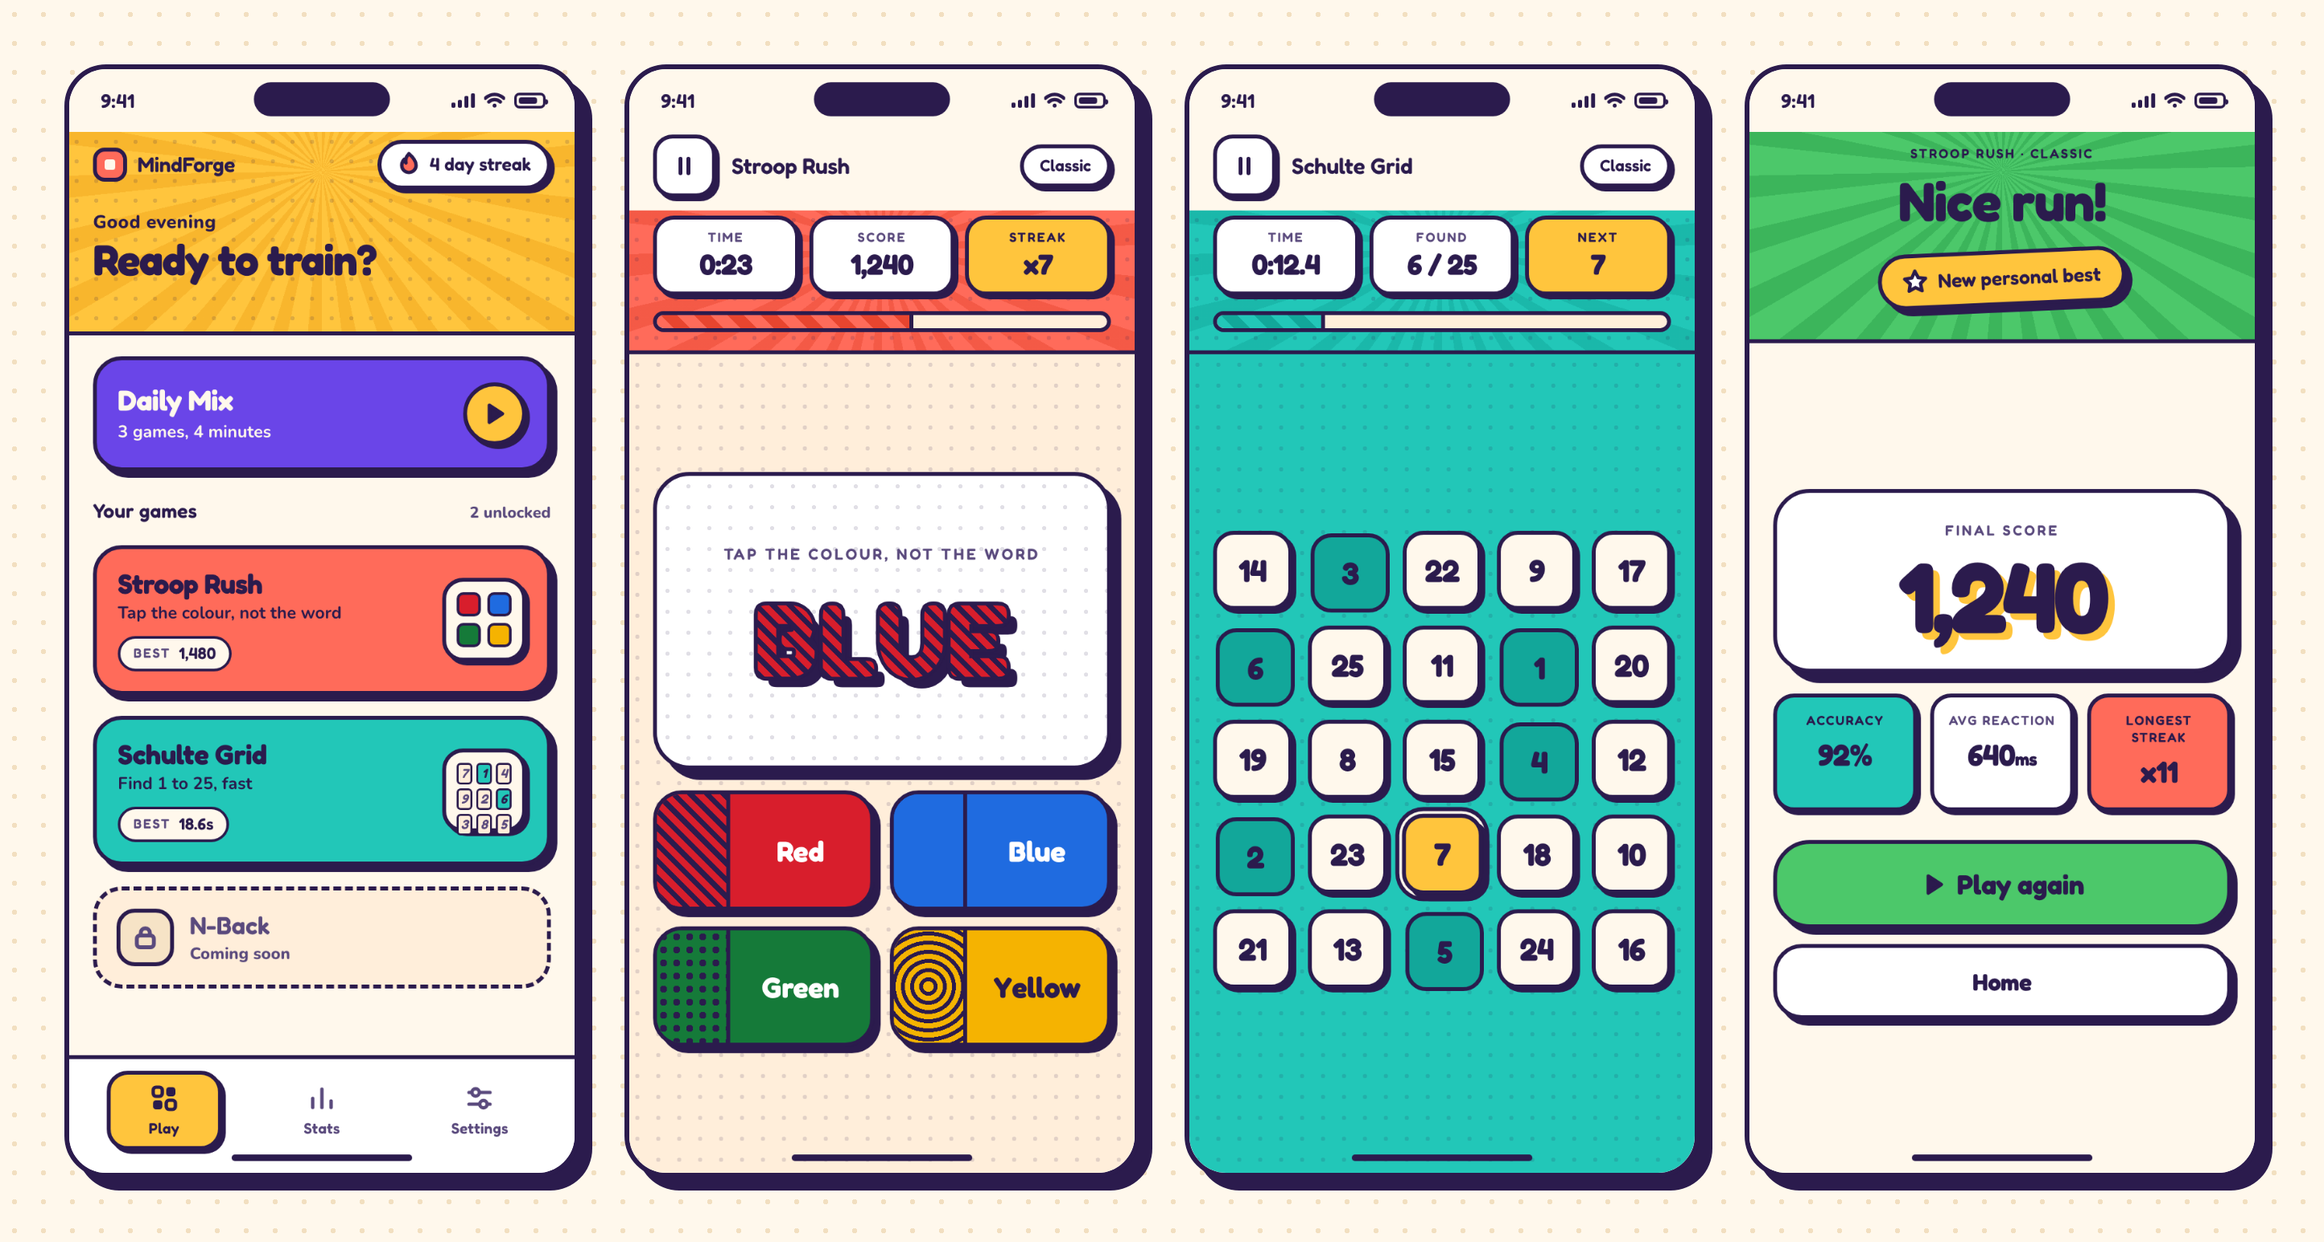
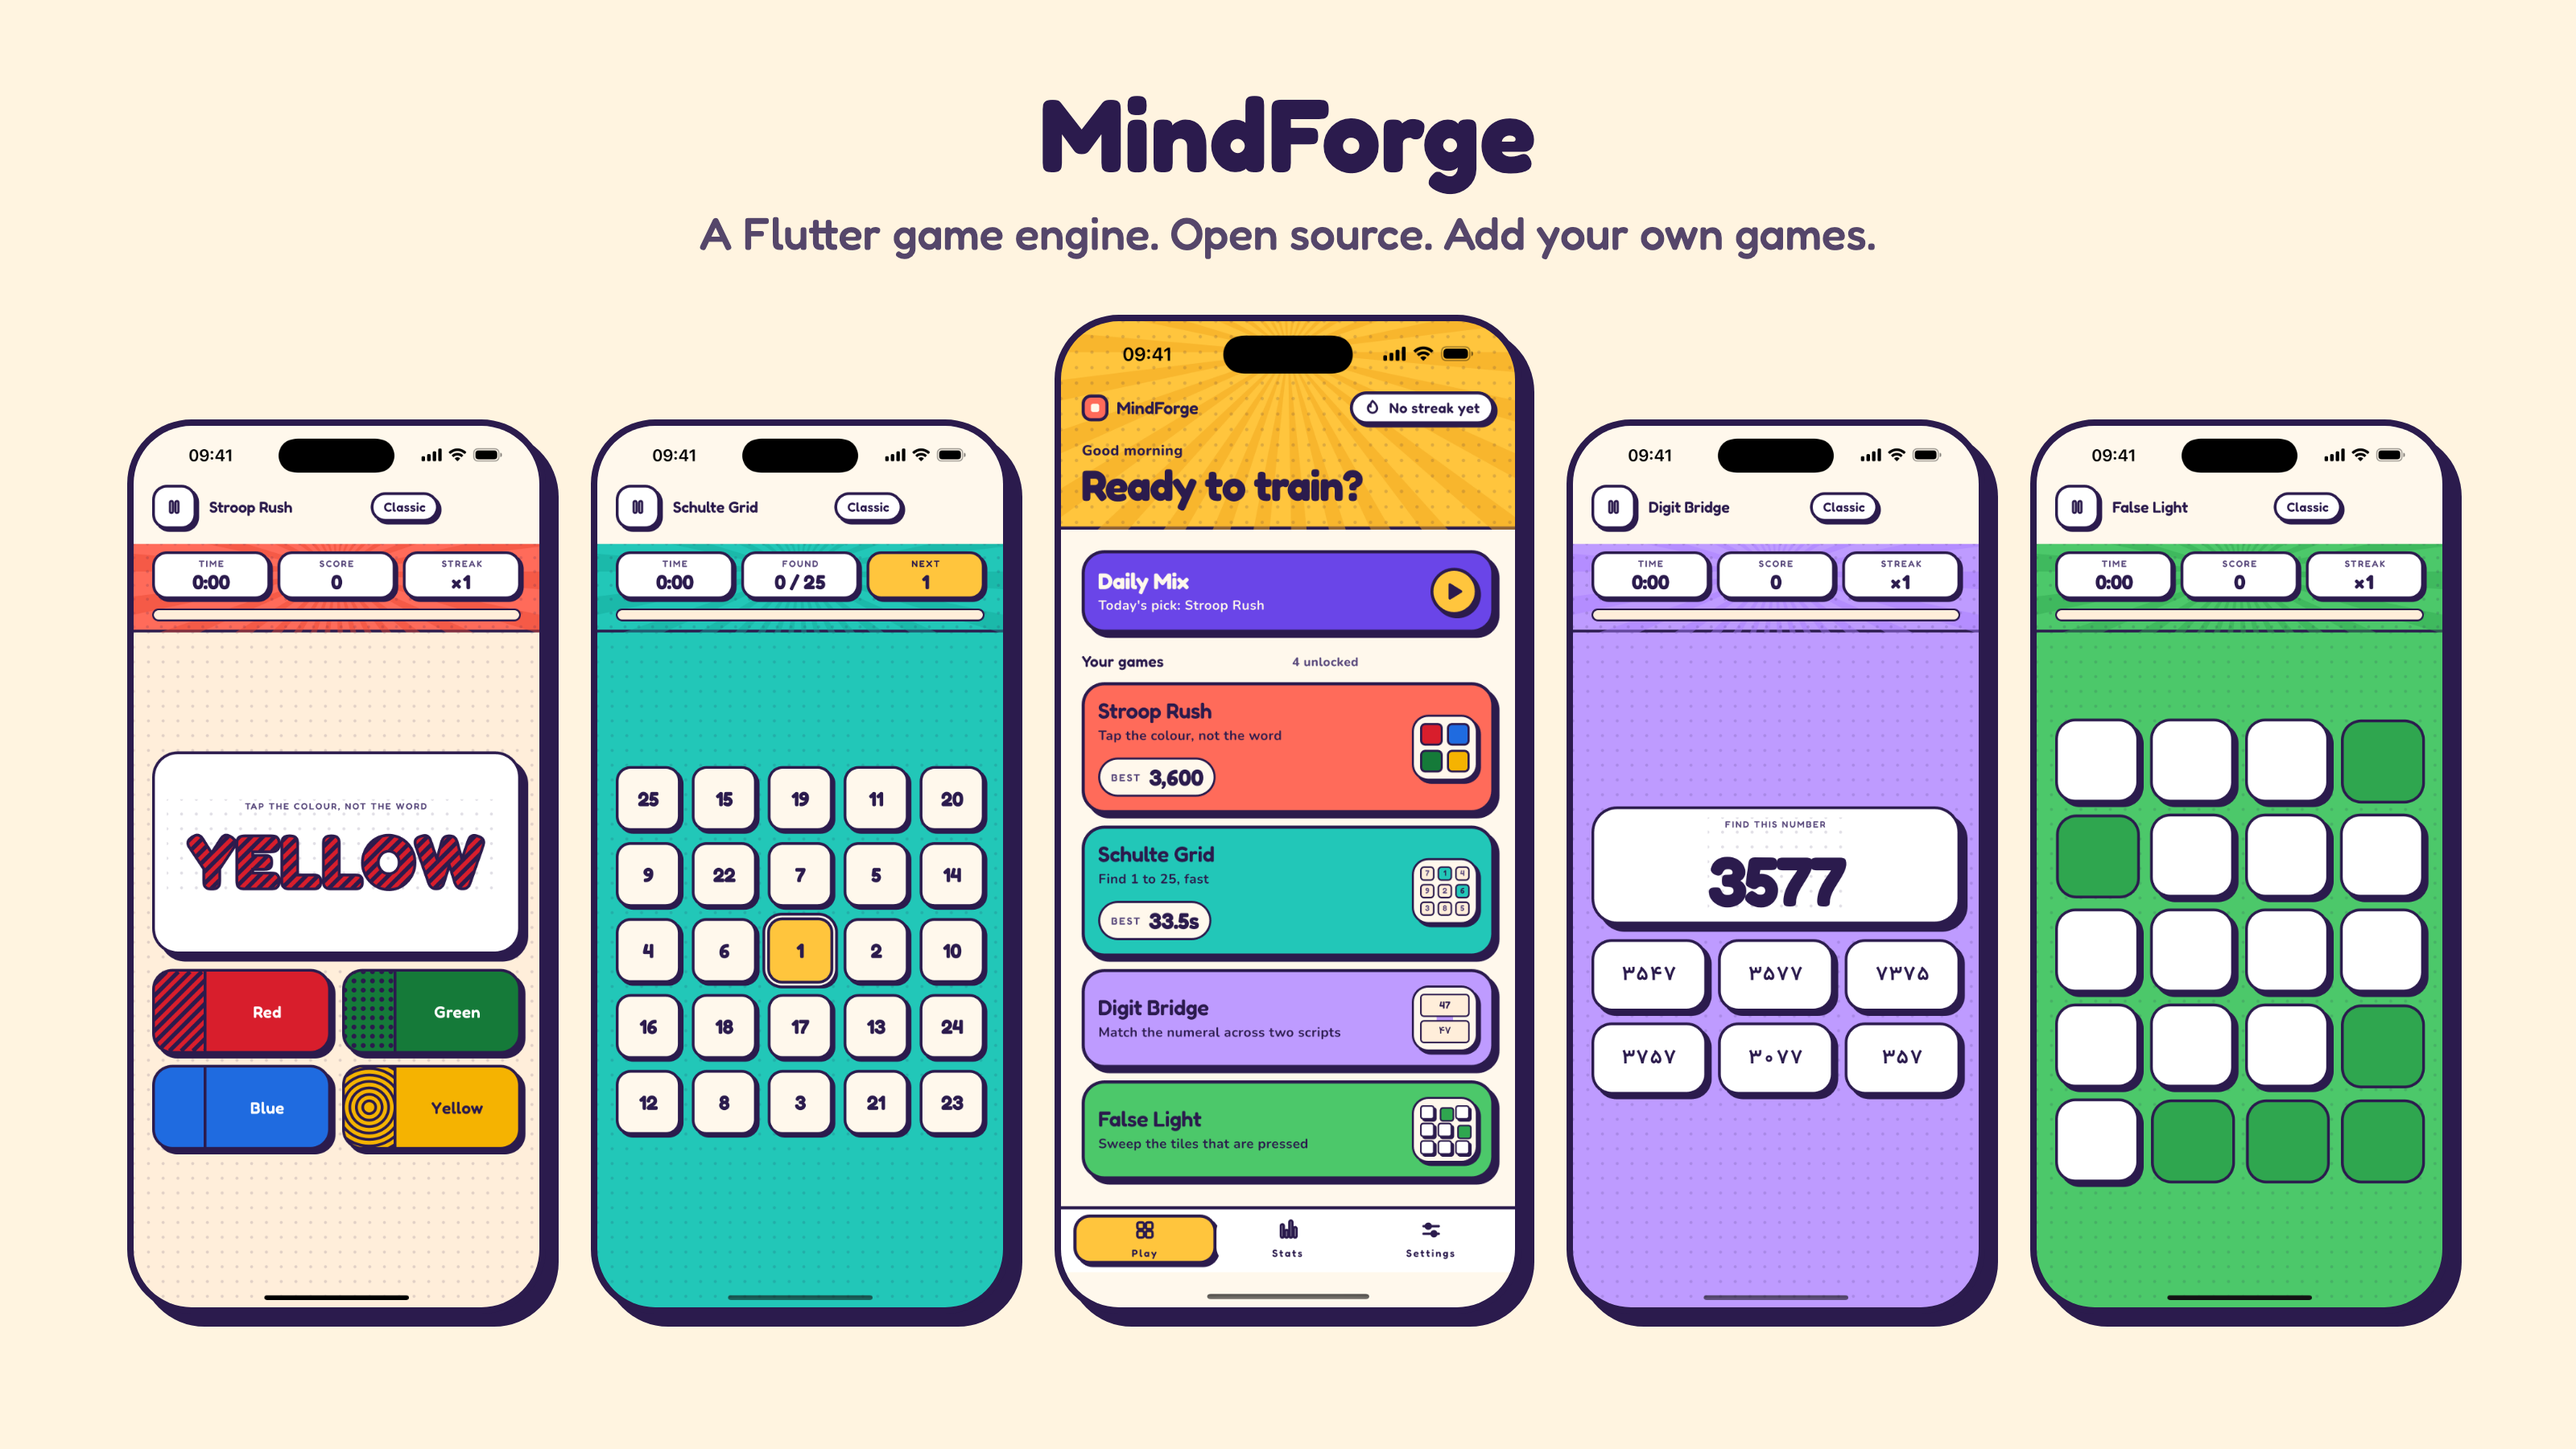
docs(readme): replace the preview with captures from the shipped app
The old preview showed two games and the results screen. The new one shows
all four games and the home hub, captured from the simulator. The status
note said 1.0.0 was not on the App Store; it has been approved and is live.

Claude-Session: https://claude.ai/code/session_01Nri5Pu5UfaGf5g3Gr9KbKa

diff --git a/README.md b/README.md
@@ -14,15 +14,16 @@
 </p>
 
 <p align="center">
-  <img src="docs/media/preview.png" alt="Four MindForge screens: the home hub, Stroop Rush with the word BLUE printed in red above four patterned answer keys, the Schulte Grid, and the results screen" width="100%">
+  <img src="docs/media/preview.png" alt="Five MindForge screens captured from the app: Stroop Rush, Schulte Grid, the home hub listing all four games, Digit Bridge and False Light" width="100%">
 </p>
 
 ---
 
-> **Status: 1.0.0 built, not yet on the App Store.** Twelve epics are merged: the theme, the four
-> locales, the component library, the engine and four games are implemented and tested. 1.0.0 was
-> submitted and rejected under App Store Guideline 4.3(a); `docs/review/app-review-4-3-a.md` records
-> what that means and what changed. The screenshots below are the *reference targets* under
+> **Status: 1.0.0 is [on the App Store](https://apps.apple.com/us/app/mindforge-brain-training/id6803829952).**
+> Twelve epics are merged: the theme, the four locales, the component library, the engine and four
+> games are implemented and tested. The first build was rejected under App Store Guideline 4.3(a);
+> `docs/review/app-review-4-3-a.md` records what that means and what changed before approval. The
+> image above is captured from the app. The screenshots below are the *reference targets* under
 > `design/sunburst-pop/screens/` that every screen was built and signed off against — they render the
 > design source, not the simulator, so a shipped screen is compared to one rather than replaced by it.
 > Progress is tracked in [`epics/README.md`](epics/README.md).
